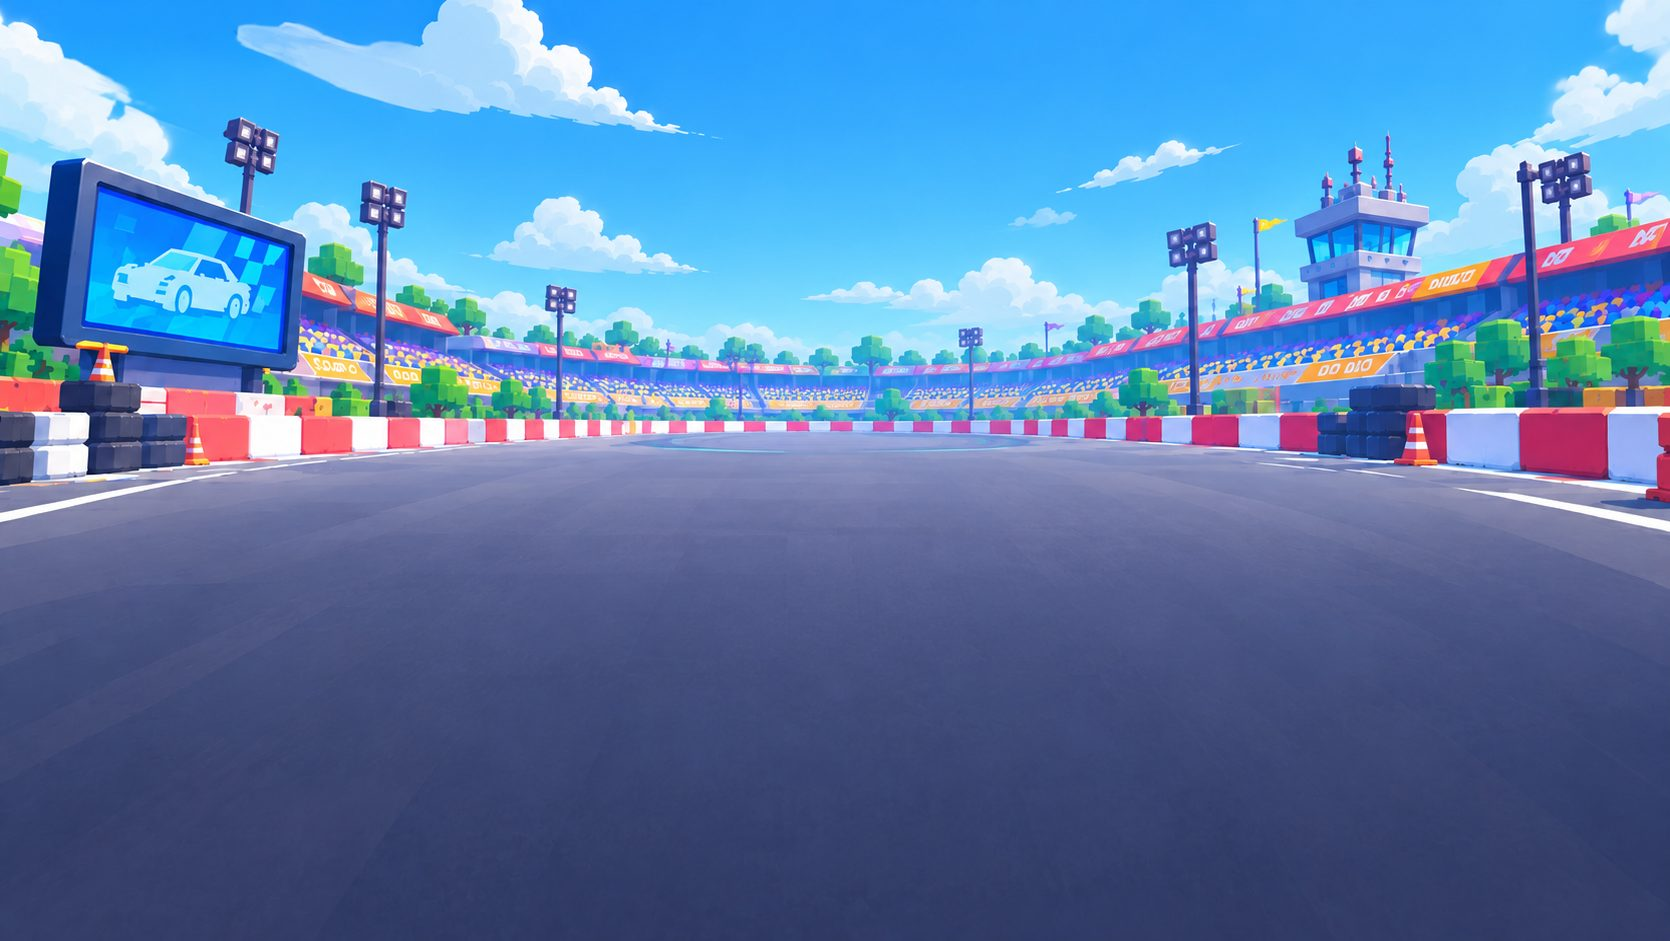
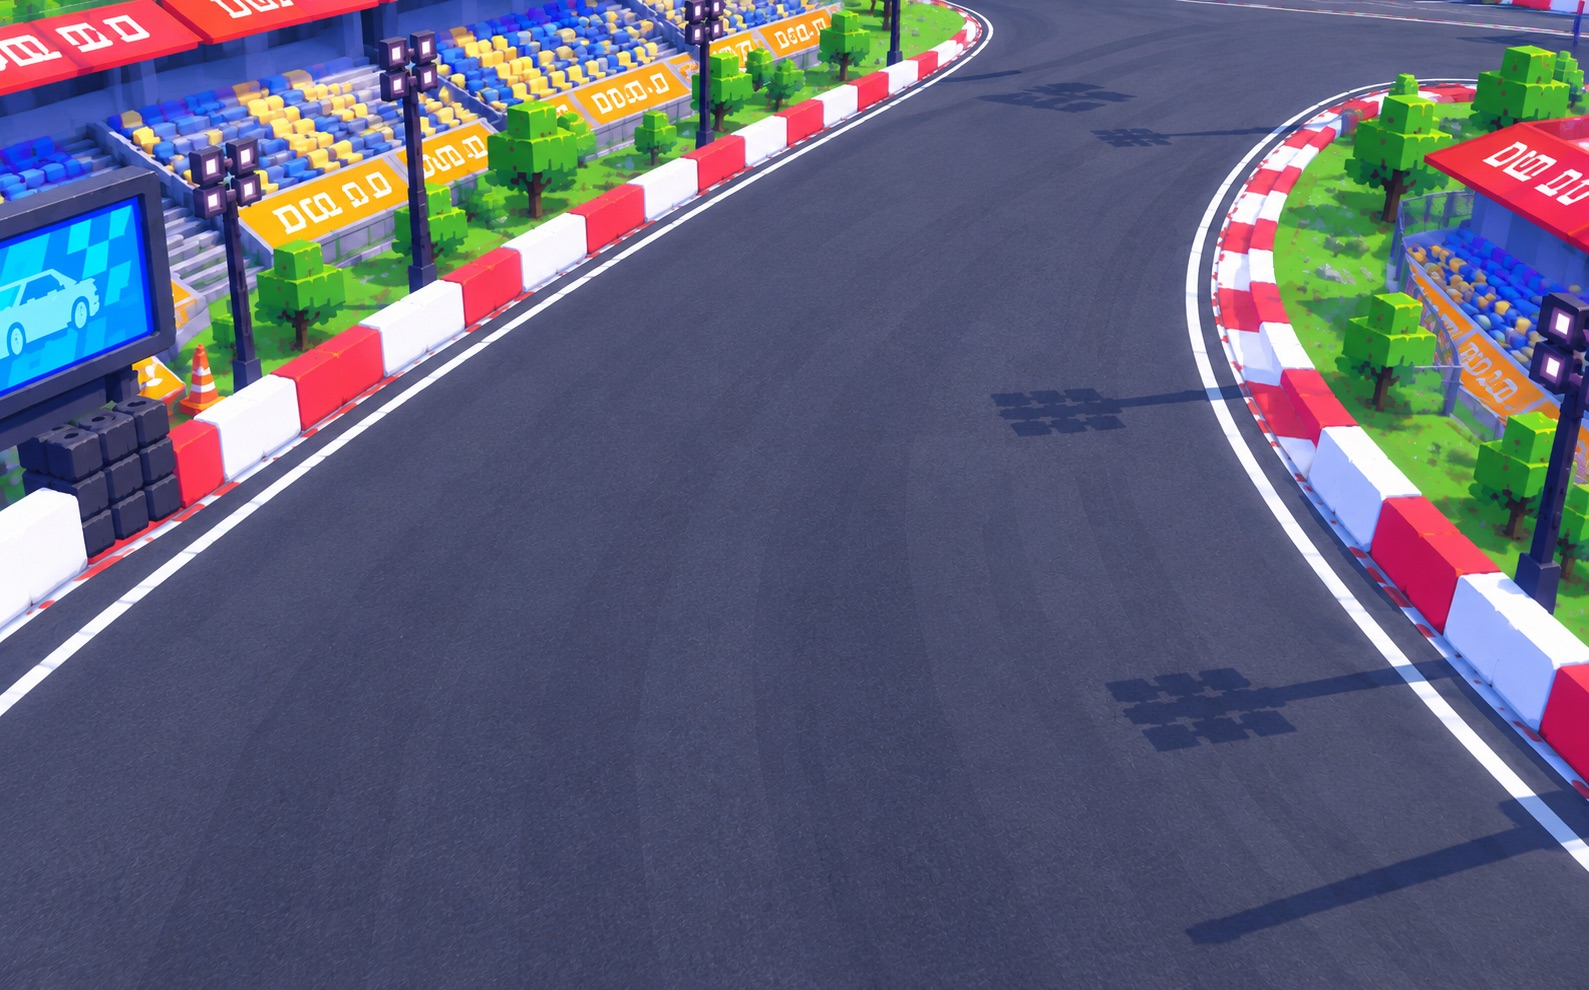
Lobby bg image, engine sound, drift skid sound

diff --git a/js/hud.js b/js/hud.js
@@ -350,6 +350,73 @@ export function createBeeper() {
       o.stop(a.currentTime + 0.55);
     } catch (e) { /* 오디오 미지원 무시 */ }
   }
+  // 엔진: 속도 연동 지속음 (saw + 로우패스, ratio 0~1)
+  let engOsc = null;
+  let engGain = null;
+  function engine(ratio) {
+    try {
+      if (muted) { engineStop(); return; }
+      const a = ac();
+      if (!engOsc) {
+        engOsc = a.createOscillator();
+        engOsc.type = 'sawtooth';
+        const lp = a.createBiquadFilter();
+        lp.type = 'lowpass';
+        lp.frequency.value = 900;
+        engGain = a.createGain();
+        engGain.gain.value = 0;
+        engOsc.connect(lp);
+        lp.connect(engGain);
+        engGain.connect(a.destination);
+        engOsc.start();
+      }
+      const r = Math.max(0, Math.min(1, ratio));
+      engOsc.frequency.setTargetAtTime(60 + r * 170, a.currentTime, 0.06);
+      engGain.gain.setTargetAtTime(0.015 + r * 0.05, a.currentTime, 0.1);
+    } catch (e) { /* 오디오 미지원 무시 */ }
+  }
+  function engineStop() {
+    try {
+      if (engOsc) {
+        engOsc.stop();
+        engOsc.disconnect();
+      }
+    } catch (e) { /* 무시 */ }
+    engOsc = null;
+    engGain = null;
+  }
+  // 스키드: 드리프트 중 타이어 끽 소리 (밴드패스 노이즈 루프 + 게인 전환)
+  let skidSrc = null;
+  let skidGain = null;
+  let skidOn = false;
+  function skid(on) {
+    try {
+      if (muted) on = false;
+      if (on === skidOn && skidSrc) return;
+      skidOn = on;
+      const a = ac();
+      if (on && !skidSrc) {
+        const len = a.sampleRate;
+        const buf = a.createBuffer(1, len, a.sampleRate);
+        const ch = buf.getChannelData(0);
+        for (let i = 0; i < len; i++) ch[i] = Math.random() * 2 - 1;
+        skidSrc = a.createBufferSource();
+        skidSrc.buffer = buf;
+        skidSrc.loop = true;
+        const bp = a.createBiquadFilter();
+        bp.type = 'bandpass';
+        bp.frequency.value = 950;
+        bp.Q.value = 0.8;
+        skidGain = a.createGain();
+        skidGain.gain.value = 0;
+        skidSrc.connect(bp);
+        bp.connect(skidGain);
+        skidGain.connect(a.destination);
+        skidSrc.start();
+      }
+      if (skidGain) skidGain.gain.setTargetAtTime(on ? 0.11 : 0, a.currentTime, 0.05);
+    } catch (e) { /* 오디오 미지원 무시 */ }
+  }
   return {
     count: () => beep(440, 0.15),
     go: () => beep(880, 0.4),
@@ -357,7 +424,17 @@ export function createBeeper() {
     crash: () => thud(0.32, 90),
     land: () => thud(0.18, 70),
     boost: () => sweep(),
-    toggle: () => (muted = !muted),
+    engine,
+    engineStop,
+    skid,
+    toggle: () => {
+      muted = !muted;
+      if (muted) {
+        engineStop();
+        skid(false);
+      }
+      return muted;
+    },
     get muted() { return muted; },
   };
 }

diff --git a/js/main.js b/js/main.js
@@ -12,7 +12,7 @@ import { createWorld, gridSlots, ROAD_HALF } from './world.js?v=c790e0';
 function roadHalf() {
   return (typeof circuit !== 'undefined' && circuit && circuit.roadHalf) || ROAD_HALF;
 }
-import { createHUD, createInput, createBeeper, setSteerHint, fmtTime } from './hud.js?v=dd0306';
+import { createHUD, createInput, createBeeper, setSteerHint, fmtTime } from './hud.js?v=a51f92';
 import { createGarage } from './garage.js?v=864ca1';
 import { carSnapshot, blendSnapshot, extrapolateRemote, planOnlineGrid, STATE_HZ } from './net.js?v=a3bf2b';
 import { createOnlinePanel } from './online.js?v=8fad8a';
@@ -421,13 +421,14 @@ function loop(ts) {
   // 폭파 연출: 2.5초간 불꽃을 보여준 뒤 성적표
   if (phase === 'wreck-anim') {
     wreckTimer -= dt;
+    beeper.engineStop();
+    beeper.skid(false);
     updatePuffs(dt);
     snapCamera(false, dt);
     renderer.render(scene, camera);
     if (wreckTimer <= 0) enterFinishedWrecked();
     return;
   }
-
   if (phase === 'countdown') {
     countdownT -= dt;
     const c = Math.ceil(countdownT);
@@ -449,6 +450,8 @@ function loop(ts) {
   }
 
   if (phase !== 'racing' && phase !== 'finished') {
+    beeper.engineStop();
+    beeper.skid(false);
     renderer.render(scene, camera);
     return;
   }
@@ -891,6 +894,15 @@ function loop(ts) {
   // 스키드마크 aging (경주 중 계속)
   skids.update(dt);
 
+  // 엔진음 + 스키드음 (관전 시점 기준)
+  const fc = racers[focusIdx()].car;
+  const spdF = Math.hypot(fc.vx, fc.vz);
+  beeper.engine(Math.min(1, spdF / 60));
+  beeper.skid(
+    !fc.out && fc.drifting && fc.airT <= 0 &&
+    Math.abs(fc.steerSm || 0) > 0.25 && spdF > 10
+  );
+
   renderer.render(scene, camera);
 }
 
@@ -1147,6 +1159,8 @@ document.getElementById('garageBtn').addEventListener('click', () => {
   document.getElementById('garage').style.display = 'flex';
   hud.hideResults();
   setSteerHint(false);
+  beeper.engineStop();
+  beeper.skid(false);
   if (garageCtl && garageCtl.refreshTracks) garageCtl.refreshTracks();
   phase = 'garage';
 });
@@ -1329,6 +1343,8 @@ function onRaceNetEvent(ev) {
     }
   } else if (ev.type === 'host-left') {
     hud.message('호스트 연결 종료', '', 2000);
+    beeper.engineStop();
+    beeper.skid(false);
     setTimeout(() => {
       if (onlineCtl) onlineCtl.room.destroy();
       onlineCtl = null;
@@ -1376,6 +1392,8 @@ function backToOnlineLobby() {
   hideFinishBanner();
   phase = 'garage';
   hud.hideResults();
+  beeper.engineStop();
+  beeper.skid(false);
   document.getElementById('hud').style.display = 'none';
   document.getElementById('garage').style.display = 'flex';
   if (garageCtl && garageCtl.refreshTracks) garageCtl.refreshTracks();

diff --git a/index.html b/index.html
@@ -7,7 +7,7 @@
   <meta name="description" content="복셀 3D 트랙 경주 게임. 차고에서 차를 고르고 3랩 서킷에서 결승선을 노리세요." />
   <link rel="preconnect" href="https://fonts.googleapis.com" />
   <link href="https://fonts.googleapis.com/css2?family=Press+Start+2P&display=swap" rel="stylesheet" />
-  <link rel="stylesheet" href="css/style.css?v=fd03fa" />
+  <link rel="stylesheet" href="css/style.css?v=06c3c1" />
   <script type="importmap">
     { "imports": { "three": "https://cdn.jsdelivr.net/npm/three@0.160.0/build/three.module.js" } }
   </script>
@@ -213,7 +213,7 @@
     </div>
   </div>
 
-  <script type="module" src="js/main.js?v=4b06db"></script>
+  <script type="module" src="js/main.js?v=6c1318"></script>
   <script>
     // 확대/롱프레스 차단 (모바일 Safari·크롬 핀치줌·더블탭줌·콜아웃 방지)
     // 게임 조작은 pointer 이벤트 기반이라 영향 없음. 입력창은 제외.

diff --git a/css/style.css b/css/style.css
@@ -630,7 +630,7 @@ body.editing .ctlbtn { outline: 3px dashed #ffd75d; cursor: move; }
 
 /* 사진 스타일 메뉴 (오버라이드) */
 #garage {
-  background: #79b4e0 url('../assets/menu-bg.jpg?v=abaf0a') center 32%/cover no-repeat;
+  background: #79b4e0 url('../assets/menu-bg.jpg?v=1840ed') center 32%/cover no-repeat;
 }
 #garageCanvas {
   background: transparent;
